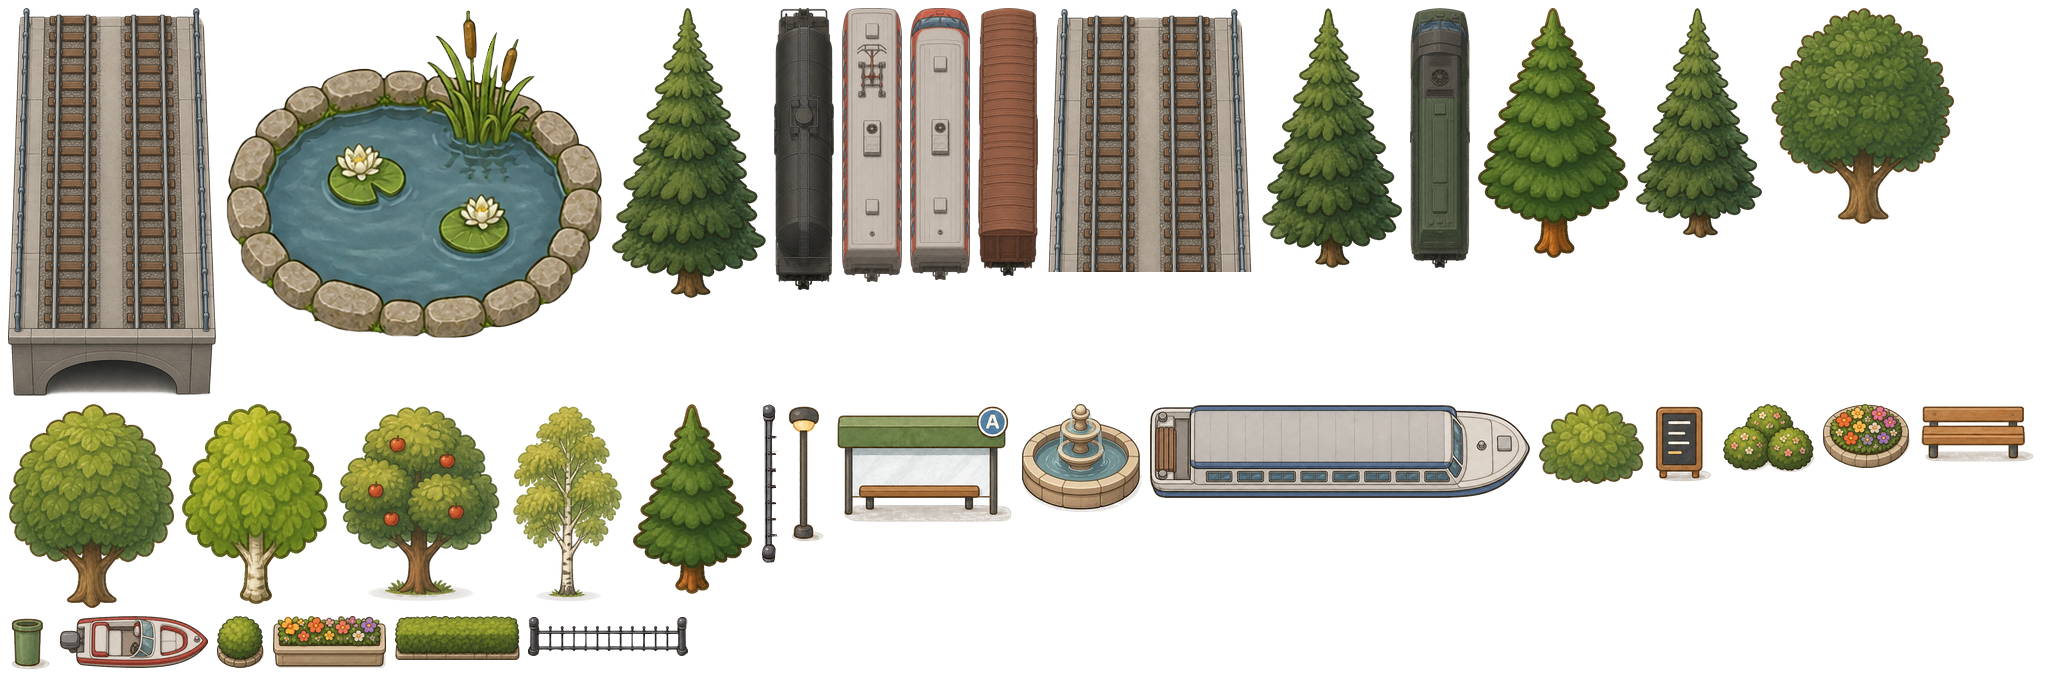
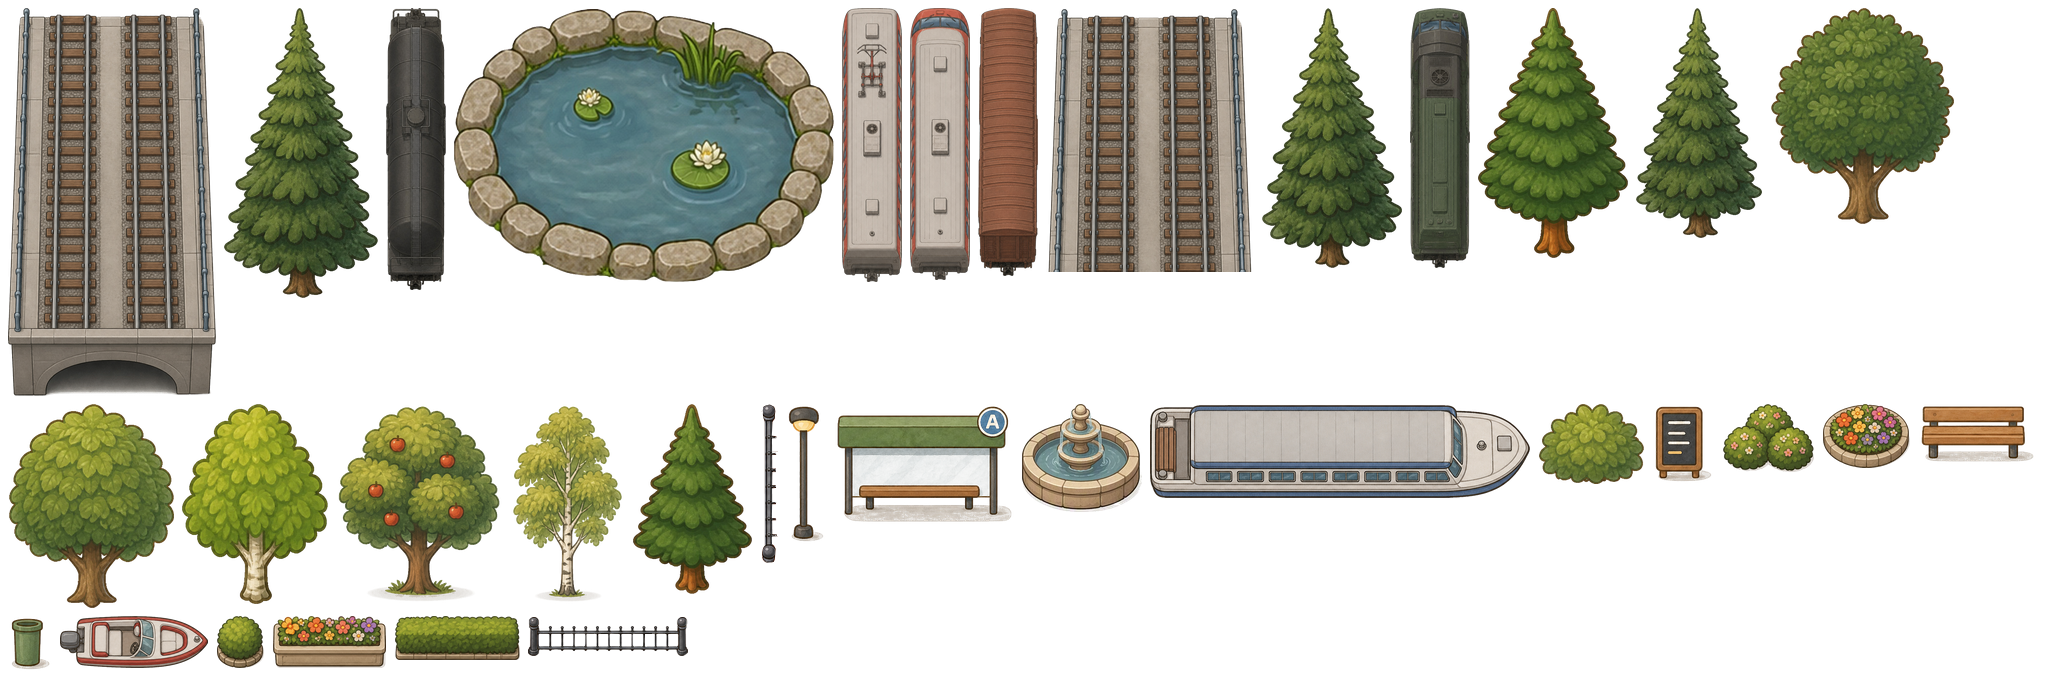
Пруд: камыш и кувшинки в масштабе сквера
Claude-Session: https://claude.ai/code/session_01DHEiVcyPj9Qv6m6TjqeSZK

Changed region(s): [[0.0938, 0.0, 0.4062, 0.4941]]

diff --git a/src/game/atlasFrames.ts b/src/game/atlasFrames.ts
@@ -89,7 +89,7 @@ export const PROP_FRAMES: Record<string, [number, number, number, number]> = {
   'prop-fence-v': [380, 202, 9, 80],
   'prop-flowerbed': [911, 202, 44, 32],
   'prop-forest-1': [631, 4, 70, 130],
-  'prop-forest-2': [306, 4, 77, 145],
+  'prop-forest-2': [112, 4, 77, 145],
   'prop-forest-3': [818, 4, 63, 115],
   'prop-forest-4': [739, 4, 75, 125],
   'prop-forest-5': [316, 202, 60, 95],
@@ -100,12 +100,12 @@ export const PROP_FRAMES: Record<string, [number, number, number, number]> = {
   'prop-fountain': [511, 202, 60, 54],
   'prop-freight-box': [489, 4, 30, 134],
   'prop-freight-loco': [705, 4, 30, 130],
-  'prop-freight-tank': [387, 4, 30, 141],
+  'prop-freight-tank': [193, 4, 30, 141],
   'prop-hedge': [197, 308, 63, 22],
   'prop-lamp': [393, 202, 20, 70],
   'prop-menu-board': [826, 202, 31, 40],
   'prop-planter': [136, 308, 57, 26],
-  'prop-pond': [112, 4, 190, 166],
+  'prop-pond': [227, 4, 190, 137],
   'prop-rail-bridge': [4, 4, 104, 194],
   'prop-rail-deck': [523, 4, 104, 132],
   'prop-train-car': [421, 4, 30, 137],
